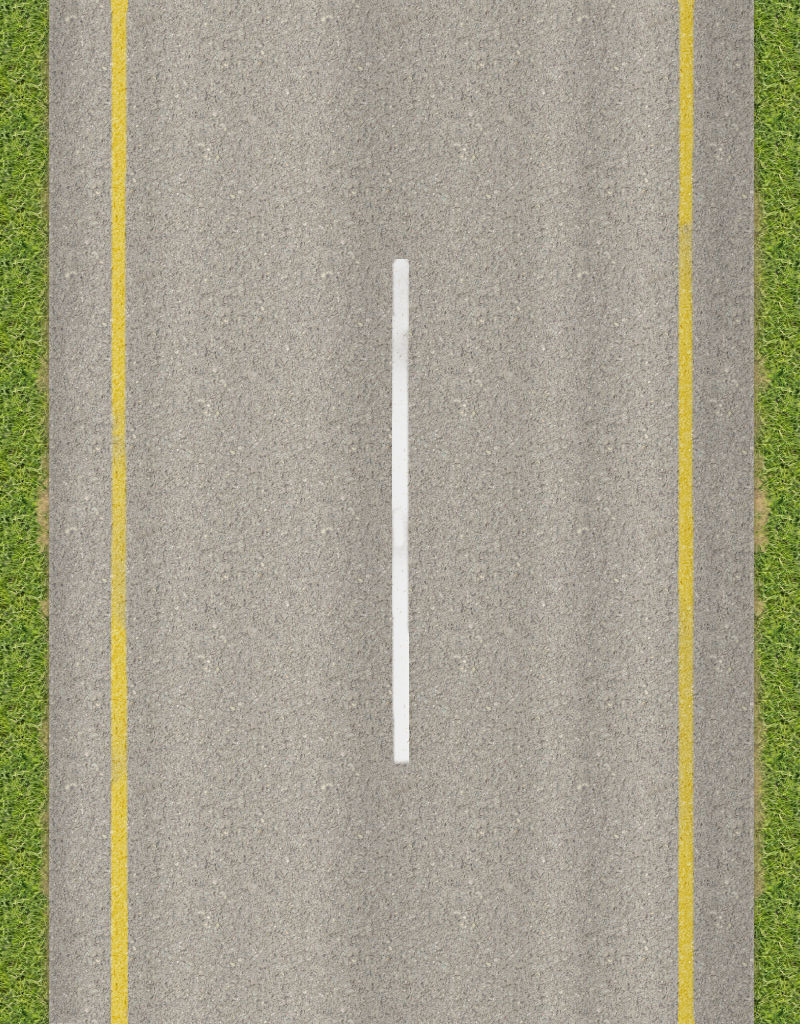
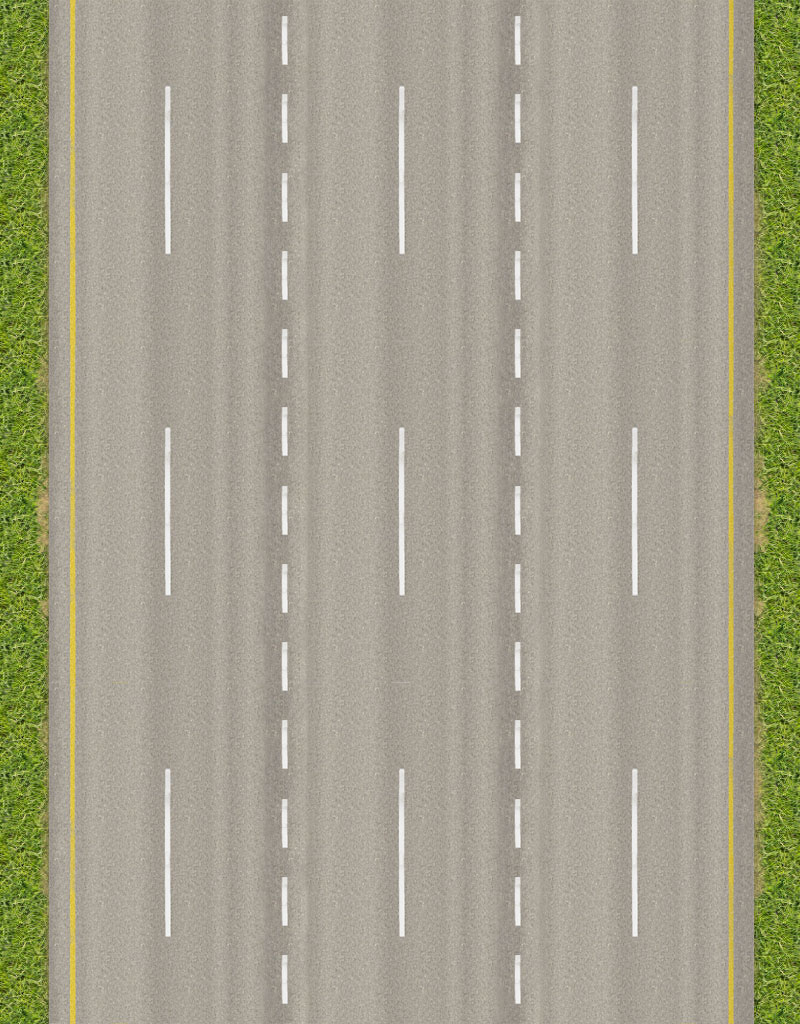
Added a difficulty increase

Changed region(s): [[0.0625, 0.0, 0.9375, 1.0]]

diff --git a/assets/js/scene.js b/assets/js/scene.js
@@ -1,15 +1,17 @@
 import Controller from 'controller';
 import GameOverSign from 'game-over-sign';
+import DifficultyManager from 'difficulty-manager';
 
 export default class Scene {
   constructor(gameContainer) {
     this.gameContainer = gameContainer;
-    this.width = 800;
-    this.height = 600;
+    this.width = gameContainer.clientWidth;
+    this.height = gameContainer.clientHeight;
     this._score = 0;
     this._objects = [];
     this._gameOver = false;
     this._controller = new Controller();
+    this.difficultyManager = new DifficultyManager()
   }
 
   get objects() {
@@ -30,6 +32,9 @@ export default class Scene {
 
   addScore(score) {
     this._score += score;
+    if(this._score % 1000 === 0) {
+      this.difficultyManager.increaseDifficulty();
+    }
   }
 
   addObject(obj) {

diff --git a/assets/js/lorry.js b/assets/js/lorry.js
@@ -16,17 +16,19 @@ export default class Lorry extends ObjectBase {
   }
 
   update(frameDelta) {
+    let difficultyMultiplier = this.scene.difficultyManager.lorrySpeedMultiplier;
+
     let controller = this.scene.controller;
     if(controller.keys.left) {
-      this.x -= .5 * frameDelta;
+      this.x -= .5 * frameDelta * difficultyMultiplier;
     } else if(controller.keys.right) {
-      this.x += .5 * frameDelta;
+      this.x += .5 * frameDelta * difficultyMultiplier;
     }
 
     if(controller.keys.up) {
-      this.y -= .3 * frameDelta;
+      this.y -= .3 * frameDelta * difficultyMultiplier;
     } else if(controller.keys.down) {
-      this.y += .9 * frameDelta;
+      this.y += .5 * frameDelta * difficultyMultiplier;
     }
 
     const roadPadding = 60;

diff --git a/assets/js/entity-spawner.js b/assets/js/entity-spawner.js
@@ -10,12 +10,13 @@ export default class EntitySpawner extends ObjectBase {
   }
 
   update(frameDelta, frameTime) {
+    let difficultyMultiplier = this.scene.difficultyManager.spawnSpeedMultiplier;
     if(!this.nextSpawn) {
-      this.nextSpawn = frameTime + 400;
+      this.nextSpawn = frameTime + (400 - (200 * difficultyMultiplier));
     }
 
     if(this.nextSpawn <= frameTime) {
-      this.nextSpawn = frameTime + 400;
+      this.nextSpawn = frameTime + (400 - (200 * difficultyMultiplier));
       
       if(Math.random() > .3) {
         this.spawnGoodie();

diff --git a/assets/index.html b/assets/index.html
@@ -10,17 +10,7 @@
     <link rel="stylesheet" href="main.css">
   </head>
   <body>
-    <header>
-      <h1>Awesome book mobile game</h1>
-    </header>
-
-    <div class="game-container">
-    </div>
-
-    <footer>
-
-    </footer>
-
+    <div class="game-container"></div>
     <script src="https://ajax.googleapis.com/ajax/libs/jquery/3.1.0/jquery.min.js"></script>
     <script>window.jQuery||document.write('<script src="js/vendor/jquery-3.1.0.min.js"><\/script>')</script>
     <script src="vendor.js"></script>

diff --git a/assets/js/difficulty-manager.js b/assets/js/difficulty-manager.js
@@ -1,0 +1,23 @@
+export default class DifficultyManager {
+  constructor() {
+    this.difficulty = 1;
+  }
+
+  increaseDifficulty() {
+    if(this.difficulty < 10) {
+      this.difficulty++;
+    }
+  }
+
+  get spawnSpeedMultiplier() {
+    return Math.log10(this.difficulty);
+  }
+
+  get lorrySpeedMultiplier() {
+    let multiplier = Math.log(this.difficulty);
+    if(multiplier < 1) {
+      multiplier = 1;
+    }
+    return multiplier;
+  }
+}

diff --git a/assets/js/backdrop.js b/assets/js/backdrop.js
@@ -8,7 +8,7 @@ export default class Backdrop extends ObjectBase {
     this.element = scene.createDOMElement('backdrop');
     this.element.style.width = scene.width + 'px';
     this.element.style.height = scene.height + 'px';
-    this.element.style.backgroundImage = 'url("/images/backdrop2.jpg")';
+    this.element.style.backgroundImage = 'url("/images/backdrop.jpg")';
   }
 
   update(frameDelta) {

diff --git a/assets/styles/main.less b/assets/styles/main.less
@@ -2,7 +2,8 @@
 
 .game-container {
     width: 800px;
-    height: 600px;
+    height: 100vh;
+    margin: auto;
     overflow: hidden;
     position: relative;
 }
